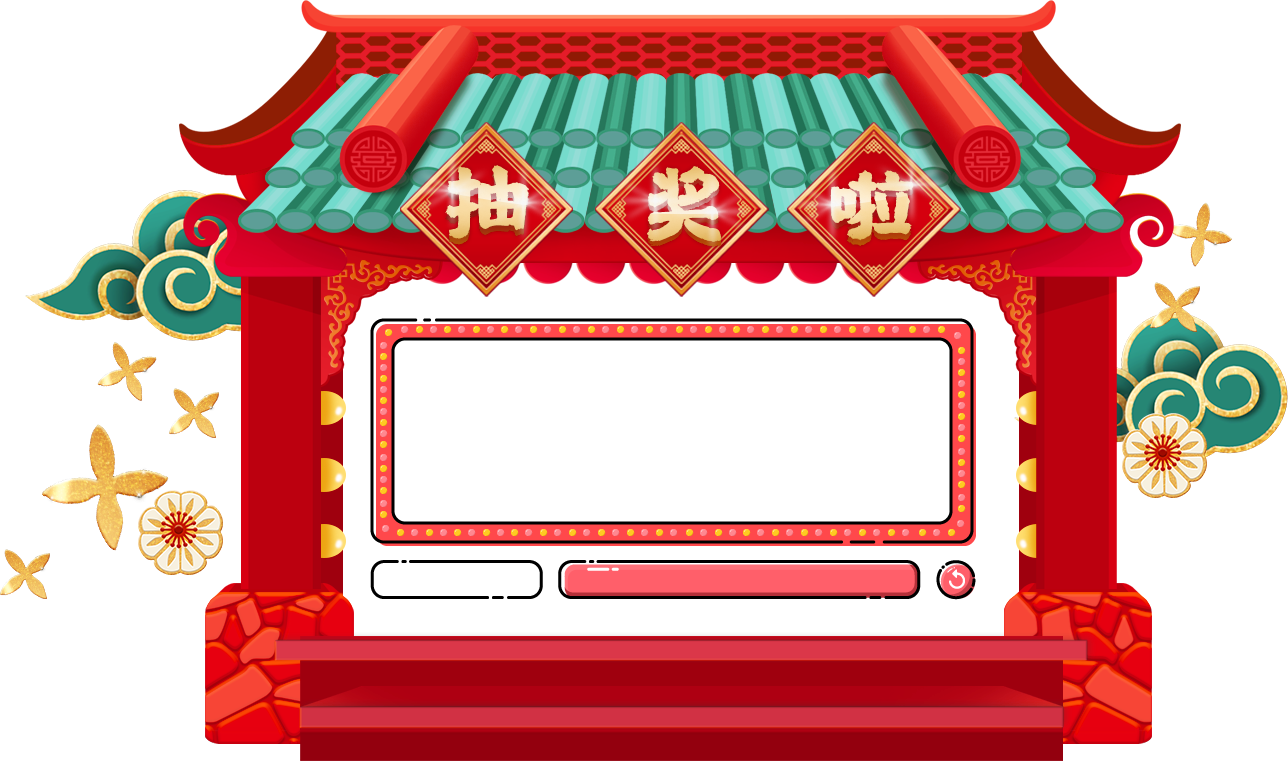
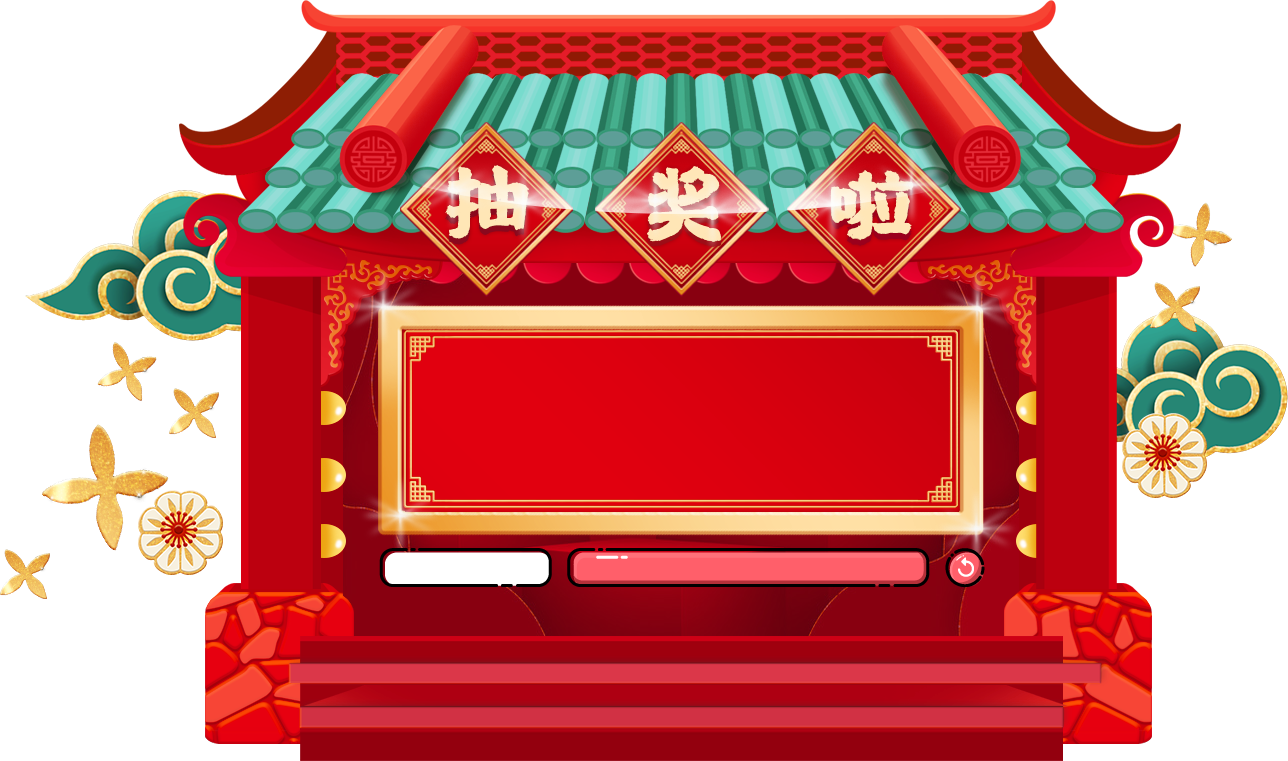
背景板更改，主题颜色更改

diff --git a/css/style.less b/css/style.less
@@ -61,7 +61,7 @@ body {
         background: rgba(0, 0, 0, 0);
         width: 45.5rem;
         height: 15rem;
-        margin: 14.5rem -4.5rem 0 0rem;
+        margin: 12.5rem -6rem 0 0rem;
         vertical-align: middle;
         text-align: center;
         .lantern {
@@ -72,17 +72,16 @@ body {
           background: url(img/lantern-l.png) no-repeat;
           background-size: contain;
           position: absolute;
-          top: 19rem;
+          top: 20rem;
           left: 43rem;
           transform-origin: 50% 0%;
           animation: lanternSwingL 3s ease-in-out 2s infinite alternate;
           &:last-child {
-            height: 27rem;
+            height: 25rem;
             background: url(img/lantern-r.png) no-repeat;
             background-size: contain;
-
-            top: 20rem;
-            left: 105rem;
+            top: 22rem;
+            left: 111rem;
             animation: lanternSwingR 3s ease-in-out 2s infinite alternate;
           }
         }
@@ -90,7 +89,7 @@ body {
           position: absolute;
           top: 50%;
           left: 50%;
-          margin: 0rem -6.5rem;
+          margin: -1rem -6.5rem;
           width: 18rem;
           height: 8rem;
           input {
@@ -100,7 +99,9 @@ body {
             padding: 1rem;
             box-sizing: border-box;
             text-align: center;
-
+            border: none;
+            background-color: rgba(0, 0, 0, 0);
+            color: #fedb9d;
           }
         }
         > #result {
@@ -111,7 +112,8 @@ body {
           > div {
             display: table-cell;
             vertical-align: middle;
-            color: black;
+            color: #fedb9d;
+            text-shadow: 2px 2px 2px #840013;
             > span {
               display: block;
               float: left;
@@ -126,10 +128,9 @@ body {
                 color: @strongColor;
               }
             }
-            //&[class^="p"]{
+            //&[class^="p"] {
             //  > span {
-            //    width: 100%;
-            //    font-size: 8rem;
+            //    text-align: center;
             //  }
             //}
             &.p1 { //1人中奖
@@ -174,7 +175,7 @@ body {
       }
       > footer {
         width: 49rem;
-        margin: 0 0 0 5rem;
+        margin: 0 0 0 6rem;
         text-align: center;
         vertical-align: middle;
         padding: 3rem 0 0 0;
@@ -262,6 +263,3 @@ body {
   }
 }
 
-#bgLuckyDrawEnd {
-
-}

diff --git a/css/style.css b/css/style.css
@@ -64,12 +64,13 @@ html {
   border-radius: 0.5rem;
 }
 #bgLuckyDrawEnd {
-  position: absolute;
   z-index: -10;
+  position: absolute;
+  width: 50rem;
+  height: 50rem;
 }
 #bgLuckyDrawEnd.bg {
   position: absolute;
-  top: 30em;
   background: url(img/bgLight.png) no-repeat center center;
   -webkit-animation: lightAnimation 5s infinite linear;
   -moz-animation: lightAnimation 5s infinite linear;
@@ -242,7 +243,7 @@ body > section > .panelCon > section {
   background: rgba(0, 0, 0, 0);
   width: 45.5rem;
   height: 15rem;
-  margin: 14.5rem -4.5rem 0 0rem;
+  margin: 12.5rem -6rem 0 0rem;
   vertical-align: middle;
   text-align: center;
 }
@@ -254,24 +255,24 @@ body > section > .panelCon > section .lantern {
   background: url(img/lantern-l.png) no-repeat;
   background-size: contain;
   position: absolute;
-  top: 19rem;
+  top: 20rem;
   left: 43rem;
   transform-origin: 50% 0%;
   animation: lanternSwingL 3s ease-in-out 2s infinite alternate;
 }
 body > section > .panelCon > section .lantern:last-child {
-  height: 27rem;
+  height: 25rem;
   background: url(img/lantern-r.png) no-repeat;
   background-size: contain;
-  top: 20rem;
-  left: 105rem;
+  top: 22rem;
+  left: 111rem;
   animation: lanternSwingR 3s ease-in-out 2s infinite alternate;
 }
 body > section > .panelCon > section #luckyDrawing {
   position: absolute;
   top: 50%;
   left: 50%;
-  margin: 0rem -6.5rem;
+  margin: -1rem -6.5rem;
   width: 18rem;
   height: 8rem;
 }
@@ -282,6 +283,9 @@ body > section > .panelCon > section #luckyDrawing input {
   padding: 1rem;
   box-sizing: border-box;
   text-align: center;
+  border: none;
+  background-color: rgba(0, 0, 0, 0);
+  color: #fedb9d;
 }
 body > section > .panelCon > section > #result {
   width: 100%;
@@ -292,7 +296,8 @@ body > section > .panelCon > section > #result {
 body > section > .panelCon > section > #result > div {
   display: table-cell;
   vertical-align: middle;
-  color: black;
+  color: #fedb9d;
+  text-shadow: 2px 2px 2px #840013;
 }
 body > section > .panelCon > section > #result > div > span {
   display: block;
@@ -353,7 +358,7 @@ body > section > .panelCon > section > #result > div.p25 > span {
 }
 body > section > .panelCon > footer {
   width: 49rem;
-  margin: 0 0 0 5rem;
+  margin: 0 0 0 6rem;
   text-align: center;
   vertical-align: middle;
   padding: 3rem 0 0 0;

diff --git a/js/index.js b/js/index.js
@@ -42,7 +42,7 @@ $(function () {
       $('#luckyDrawing').show().next().addClass('hide');
       move();
       $('#btnStart').text('停止');
-      // $('#bgLuckyDrawEnd').removeClass('bg');
+      $('#bgLuckyDrawEnd').removeClass('bg');
     }
     else {
       $('#btnStart').text('开始');//设置按钮文本为开始
@@ -53,7 +53,7 @@ $(function () {
       clearInterval(timer);//停止输入框动画展示
       $('#luckyDrawing').val(luckyMan[luckyMan.length - 1]);//输入框显示最后一个中奖名字
       $('#result').fadeIn().find('div').removeClass().addClass('p' + luckyDrawNum);//隐藏输入框，显示中奖框
-      // $('#bgLuckyDrawEnd').addClass('bg');//添加中奖背景光辉
+      $('#bgLuckyDrawEnd').addClass('bg');//添加中奖背景光辉
       $('#txtNum').attr('placeholder', '输入中奖人数(' + remainPerson.length + ')');
     }
   });
@@ -72,7 +72,7 @@ $(function () {
       $('#showName').val('');
       //隐藏中奖名单,然后显示抽奖框
       $('#result').fadeOut();//.prev().fadeIn()
-      // $('#bgLuckyDrawEnd').removeClass('bg');//移除背景光辉
+      $('#bgLuckyDrawEnd').removeClass('bg');//移除背景光辉
       times++;
       console.log(times);
 
@@ -92,6 +92,15 @@ function startLuckDraw() {
   var randomPerson = getRandomArrayElements(remainPerson, luckyDrawNum);
   var tempHtml = '';
   $.each(randomPerson, function (i, person) {
+    // let pid = person.split('KYY')[1];
+    // if (pid && pid < 10) {
+    //   let sizeStyle = 'style="text-align:left"';
+    //   tempHtml += '<span><span ' + sizeStyle + '>' + person + '</span></span>';
+    //   console.log(tempHtml);
+    // } else {
+      tempHtml += '<span><span>' + person + '</span></span>';
+    // }
+
     // var sizeStyle = '';
     // if (person.length > 3) {
     //   sizeStyle = ' style=font-size:' + 3 / person.length + 'em';
@@ -100,7 +109,6 @@ function startLuckDraw() {
     //   tempHtml += '<span><span ' + sizeStyle + '><b>' + person + '</b></span></span>';
     // }
     // else {
-    tempHtml += '<span><span>' + person + '</span></span>';
     // }
   });
   $('#result>div').html(tempHtml);

diff --git a/index.html b/index.html
@@ -16,6 +16,7 @@
 </header>
 <section>
     <div class="panelCon">
+        <div id="bgLuckyDrawEnd"></div>
         <section>
             <div class="hide" id="luckyDrawing"><input id="showName" readonly type="text"></div>
             <div class="hide" id="result">
@@ -38,7 +39,6 @@
     <div class="footDecorate"></div>
 </footer>
 
-<div id="bgLuckyDrawEnd" class="bg"></div>
 <!--<div id="iconDiv" class="animated fadeIn"><span><img src="css/img/icon/01.png"> </span><span><img-->
 <!--src="css/img/icon/02.png"> </span><span><img src="css/img/icon/03.png"> </span><span><img-->
 <!--src="css/img/icon/04.png"> </span><span><img src="css/img/icon/05.png"> </span><span><img-->

diff --git a/css/widget/animation.less b/css/widget/animation.less
@@ -1,9 +1,10 @@
 #bgLuckyDrawEnd {
-  position: absolute;
   z-index: -10;
+  position: absolute;
+  width: 50rem;
+  height: 50rem;
   &.bg {
     position: absolute;
-    top: 30em;
     background: url(img/bgLight.png) no-repeat center center;
     -webkit-animation: lightAnimation 5s infinite linear;
     -moz-animation: lightAnimation 5s infinite linear;
